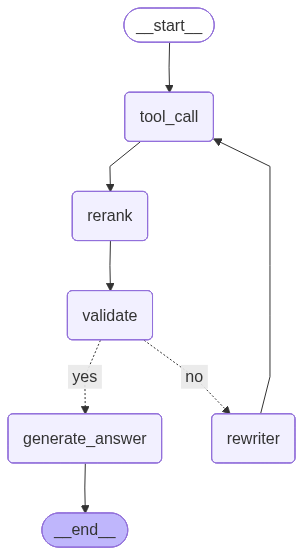
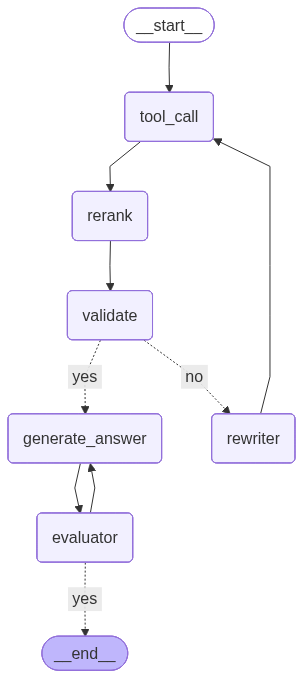
Evaluator node corrected.

diff --git a/src/api/v1/agents/agents.py b/src/api/v1/agents/agents.py
@@ -1,5 +1,5 @@
 import os 
-from typing import TypedDict, List 
+from typing import TypedDict, List, Optional 
 
 import cohere 
 from dotenv import load_dotenv 
@@ -12,7 +12,7 @@ from langchain_core.prompts import ChatPromptTemplate
 from src.api.v1.tools.fts_search import fts_search
 from src.api.v1.tools.hybrid_search import hybrid_search
 from src.api.v1.tools.vector_search import vector_search
-from src.api.v1.schemas.query_schema import AIResponse 
+from src.api.v1.schemas.query_schema import AIResponse, FeedBack
 # from src.core.db import get_vector_store 
 
 load_dotenv(override=True) 
@@ -42,6 +42,7 @@ class RAGState(TypedDict):
     response: dict 
     is_valid: str 
     tool: str
+    feedback: Optional[FeedBack]
 
 
 # ============= Tool Call Agent Node =============
@@ -150,42 +151,91 @@ def generate_answer_node(state: RAGState) -> RAGState:
        model=os.getenv("GOOGLE_LLM_MODEL"),
        google_api_key=os.getenv("GOOGLE_API_KEY")
    )
-   structured_llm = agent4.with_structured_output(AIResponse)
+   #structured_llm = agent4.with_structured_output(AIResponse)
 
    context = "\n\n".join([
        f"[Source: {doc.metadata.get('source', 'unknown')} | Page: {doc.metadata.get('page', '?')}]\n{doc.page_content}"
        for doc in state["reranked_docs"]
    ])
 
-   prompt = ChatPromptTemplate.from_messages([
-       (
-           "system",
-           "You are a helpful assistant. Answer the user's question using only the "
-           "provided context. Be precise and always cite the source document and page number."
-       ),
-       ("human", "Context:\n{context}\n\nQuestion: {query}")
-   ])
+   prompt = f"""You are helpful AI Assistant your job is to generate answer for the user query only using the provided content.
+                Check for any feedback if provided and regenerate the answer based on the feedback provided.
+                User Query: {state['query']}
+                Context: {context}
+                Feedback: {state['feeback']}"""
 
-
-   chain = prompt | structured_llm
-   result = chain.invoke({"context": context, "query": state["query"]})
+   result = agent4.invoke(prompt)
 
 
    print(f"[generate_answer_node] Answer generated.")
    print("\n ============= Generator Generated output ================= \n")
    return {**state, "response": result.model_dump()}
 
-# ============= ROUTE =============
+# ============= EVALUATOR NODE ============= 
+import os
+from langchain_google_genai import ChatGoogleGenerativeAI
 
-def route(state: RAGState) -> str:
+def evaluator_node(state: RAGState) -> RAGState:
+    print("\n============= Evaluation started =============\n")
+
+    llm = ChatGoogleGenerativeAI(
+        model=os.getenv("GOOGLE_LLM_MODEL"),
+        google_api_key=os.getenv("GOOGLE_API_KEY"),
+        temperature=0
+    )
+
+    # Enforce structured output
+    evaluator = llm.with_structured_output(FeedBack)
+
+    prompt = f"""
+                You are an evaluator agent.
+
+                Evaluate the generator's response using the following criteria:
+                1. Conciseness – Is the answer clear and to the point?
+                2. Hallucination – Does the answer contain false or made-up information?
+                3. Relevancy – Does the answer directly address the user query?
+
+                User Query: {state['query']}
+                Generated Response:{state['response']}
+
+                Rules:
+                - If the answer is fully satisfactory, respond with:
+                    response="Yes"
+                    feedback fields should briefly confirm quality.
+                - If not satisfactory, respond with:
+                    response="No"
+                    feedback fields should clearly explain issues.
+                """
+
+    evaluation: FeedBack = evaluator.invoke(prompt)
+
+    print("\n============= Evaluation ended =============\n")
+
+    return {
+        **state,
+        "feedback": evaluation.feedback
+    }
+# ============= ROUTE's =============
+
+def validate_route(state: RAGState) -> str:
     
-    print("\n ============= Router Invoked ============= \n") 
+    print("\n ============= Validate Router Invoked ============= \n") 
     if state["is_valid"] == "yes":
-       print("=============== Route -> Genrator ===============")
+       print("=============== Validate Route -> Generator ===============")
     else:
-       print("=============== Route -> Writer ===============")
+       print("=============== Validate Route -> Writer ===============")
 
     return "yes" if state["is_valid"] == "yes" else "no" 
+
+def feedback_route(state: RAGState) -> str:
+
+    print("\n ============= Feedback Router Invoked ============= \n") 
+    if state["feedback"].response == "yes":
+       print("=============== Feedback Route -> END ===============")
+    else:
+       print("=============== Feedback Route -> Generator ===============")
+
+    return "yes" if state['feedback'].response == "yes" else "no" 
 
 # ============= LANG-GRAPH ============= 
 
@@ -197,18 +247,27 @@ def multimodal_rag_graph():
     graph.add_node("generate_answer",generate_answer_node) 
     graph.add_node("validate",validate_node) 
     graph.add_node("rewriter",rewriter_node) 
+    graph.add_node("evaluator", evaluator_node)
 
     graph.set_entry_point("tool_call") 
     graph.add_edge("tool_call","rerank")
     graph.add_edge("rerank","validate") 
     graph.add_conditional_edges("validate",
-                                route,
+                                validate_route,
                                 {
                                     "yes": "generate_answer",
                                     "no": "rewriter"
                                 })
     graph.add_edge("rewriter","tool_call")
-    graph.add_edge("generate_answer",END) 
+    graph.add_edge("generate_answer","evaluator") 
+    graph.add_conditional_edges("evaluator",
+                                feedback_route,
+                                {
+                                    "yes": END,
+                                    "no": "generate_answer"
+                                })
+    graph.add_edge("evaluator","generate_answer") 
+    graph.add_edge("evaluator", END)
 
     return graph.compile() 
 

diff --git a/src/api/v1/schemas/query_schema.py b/src/api/v1/schemas/query_schema.py
@@ -1,16 +1,14 @@
 from pydantic import BaseModel, Field
-from typing import List, Dict, Any, Optional
+from typing import List, Dict, Any, Optional, Literal
 
 
 class QueryRequest(BaseModel):
    query : str = Field(..., example="What is the minimum CIBIL score for personal loans?")
 
 class QueryResponse(BaseModel):
-   query: str = Field(description="User query")
+   #query: str = Field(description="User query")
    answer: str = Field(description="Generated answer")
-   policy_citations: str = Field(description="Policy citations used")
-   page_no: str = Field(description="Page numbers from documents")
-   document_name: str = Field(description="Source document name")
+   sources: List[str] = Field(description="Sources for the output generated.")
 
 class AIResponse(BaseModel):
    query: str = Field(description="The Given query by user must be present here")
@@ -18,3 +16,12 @@ class AIResponse(BaseModel):
    policy_citations: str = Field(description="Give the Policy Citation")
    page_no: str = Field(description="The page number in the metadata")
    document_name: str = Field(description="Name of the document used")
+
+class FeedbackDetails(BaseModel):
+    hallucination: str = Field(description="Feedback about hallucination")
+    conciseness: str = Field(description="Feedback about conciseness")
+    relevancy: str = Field(description="Feedback about relevancy")
+
+class FeedBack(BaseModel):
+    response: Literal["yes", "no"] = Field(description="Yes or No based on the feedback")
+    feedback: FeedbackDetails
